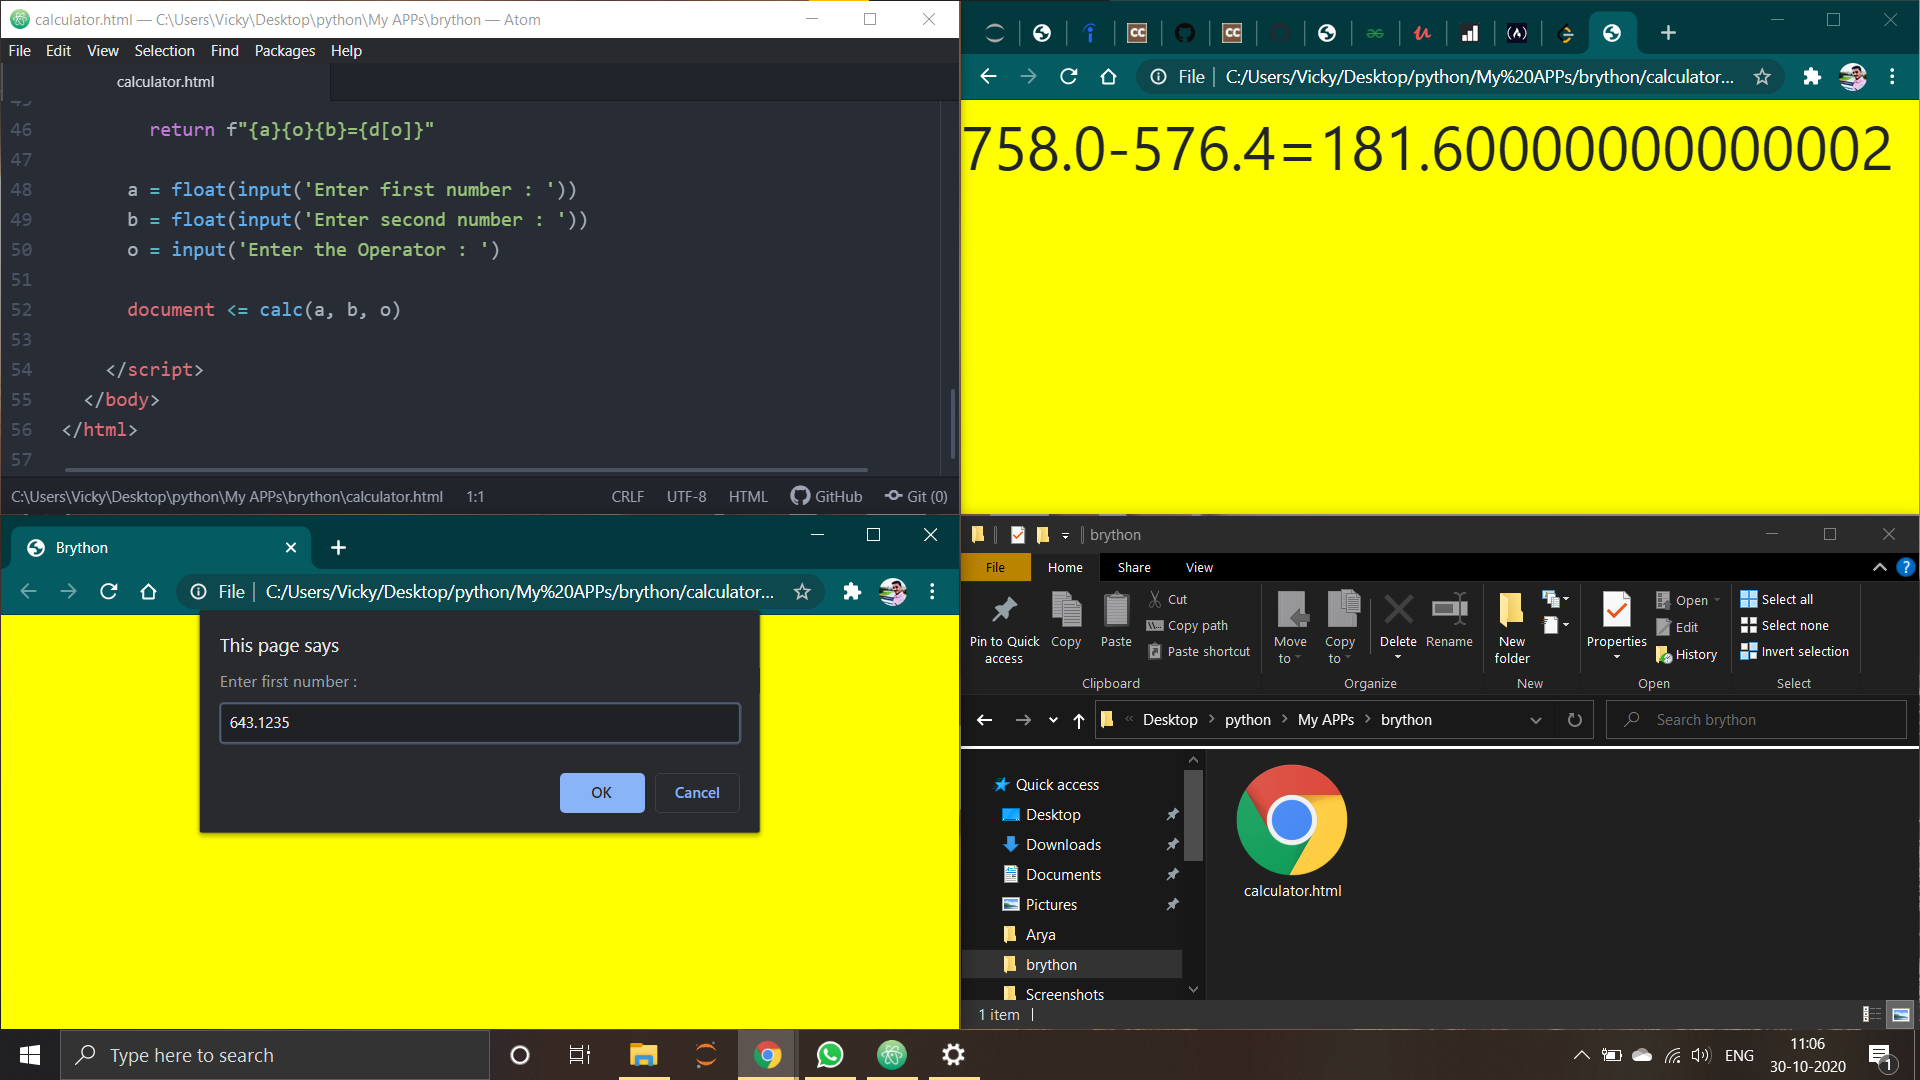
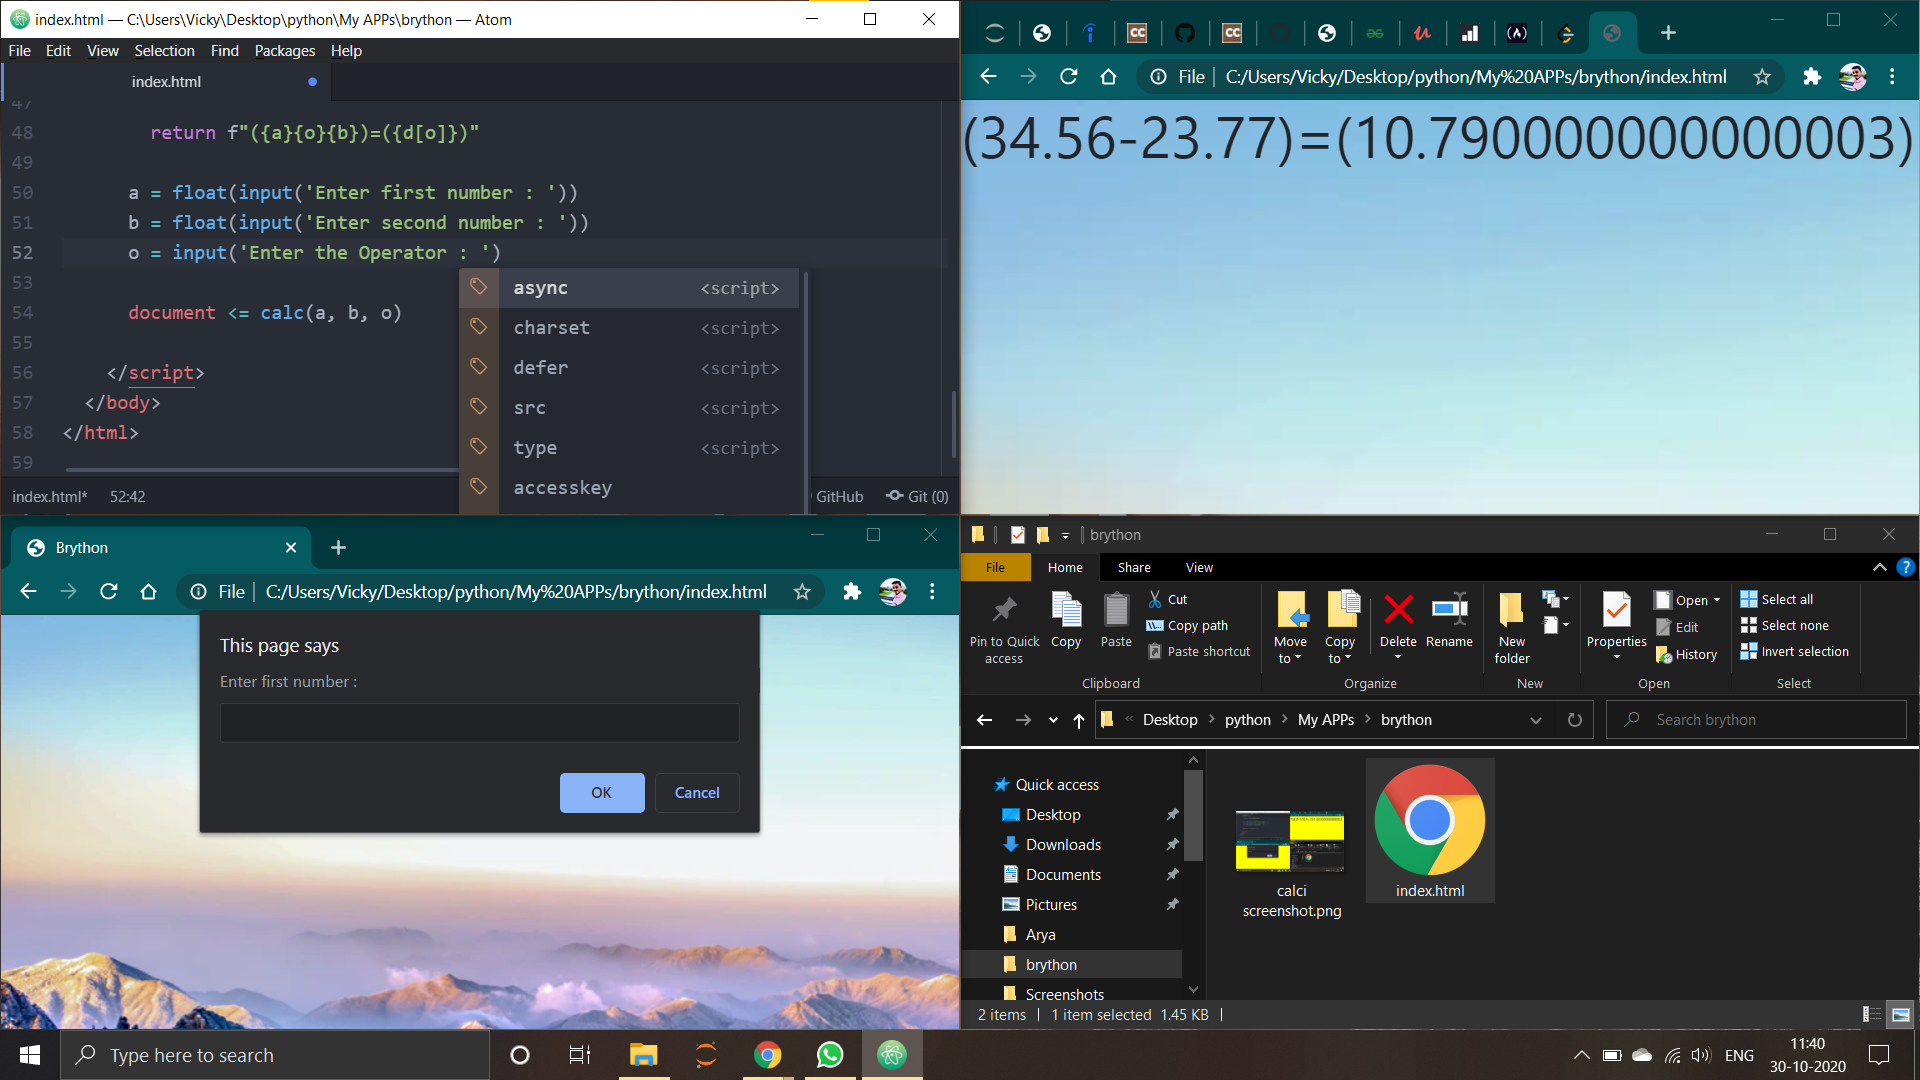
Add files via upload

diff --git a/index.html b/index.html
@@ -27,7 +27,9 @@
 
     <style>
     body {
-        background-color: yellow;
+        /* background-color: yellow; */
+        background-image: url(https://images.unsplash.com/photo-1573196872258-41425124bf5d?ixlib=rb-1.2.1&ixid=eyJhcHBfaWQiOjEyMDd9&auto=format&fit=crop&w=1050&q=80);
+        background-repeat: no-repeat;
     }
     </style>
 
@@ -43,7 +45,7 @@
               '%' : a%b
             }
 
-        return f"{a}{o}{b}={d[o]}"
+        return f"({a}{o}{b})=({d[o]})"
 
       a = float(input('Enter first number : '))
       b = float(input('Enter second number : '))
